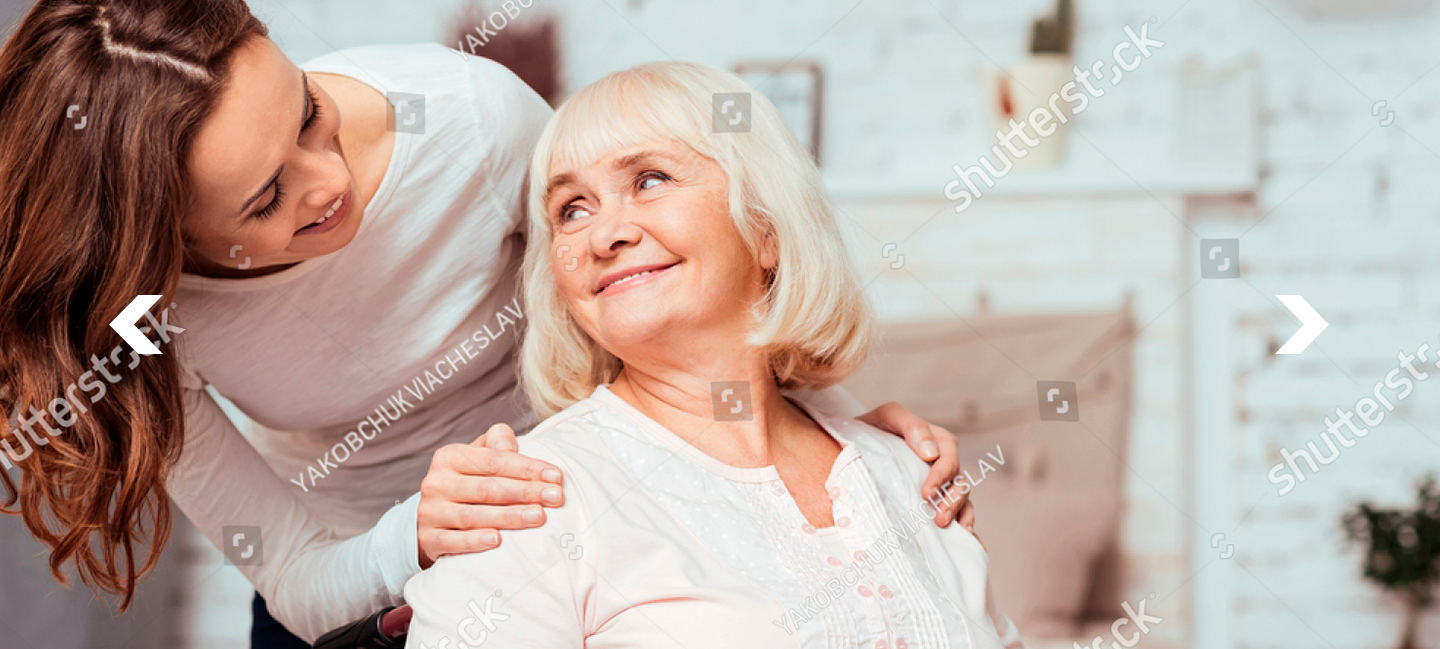
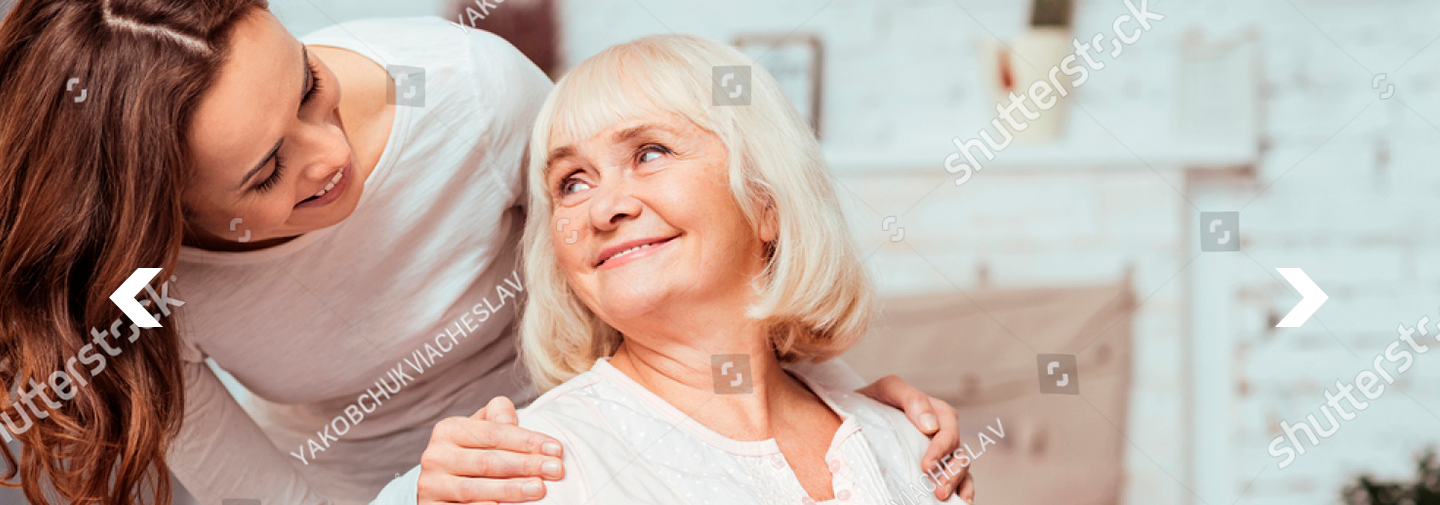
cambios en general de todas la secciones y cambio de unas imagnes

diff --git a/contacto.html b/contacto.html
@@ -10,8 +10,8 @@
     <title>Contacto - Hogar Geriátrico El Tata</title>
     <!-- Bootstrap -->
     <link href="css/bootstrap.css" rel="stylesheet">
-    
-    <!-- Styles CARRUSEL PEQUEÑO -->  
+
+    <!-- Styles CARRUSEL PEQUEÑO -->
     <link rel="stylesheet" href="https://cdnjs.cloudflare.com/ajax/libs/normalize/5.0.0/normalize.min.css">
     <link rel='stylesheet prefetch' href='https://cdnjs.cloudflare.com/ajax/libs/OwlCarousel2/2.1.3/assets/owl.carousel.min.css'>
     <link rel="stylesheet" href="css/style.css">
@@ -61,32 +61,32 @@
     </nav>
   </div>
   </header>
-  <section id="home"></section>
+  <section id="contacto"></section>
   <section id="vision">
     <div class="container">
       <div class="row">
         <div class="col-md-6">
           <form>
-  <div class="form-group">
-  
-    <input type="email" class="form-control" id="exampleFormControlInput1" placeholder="Nombre">
-  </div>
-  <div class="form-group">
-  
-    <input type="email" class="form-control" id="exampleFormControlInput1" placeholder="Email">
-  </div>
-  <div class="form-group">
-  
-    <input type="email" class="form-control" id="exampleFormControlInput1" placeholder="Teléfono">
-  </div>
+                <div class="form-group">
 
-  <div class="form-group">
+                  <input type="email" class="form-control" id="exampleFormControlInput1" placeholder="Nombre">
+                </div>
+                <div class="form-group">
 
-    <textarea class="form-control" id="exampleFormControlTextarea1" placeholder="Mensajes" rows="3"></textarea>
-  </div>
-              
-  <button type="button" class="btn btn-primary">Enviar</button>              
-</form>
+                  <input type="email" class="form-control" id="exampleFormControlInput2" placeholder="Email">
+                </div>
+                <div class="form-group">
+
+                  <input type="email" class="form-control" id="exampleFormControlInput3" placeholder="Teléfono">
+                </div>
+
+                <div class="form-group">
+
+                  <textarea class="form-control" id="exampleFormControlTextarea1" placeholder="Mensajes" rows="3"></textarea>
+                </div>
+
+                <button type="button" class="btn btn-primary">Enviar</button>
+              </form>
         </div>
         <div class="col-md-6">
           <div class="textosfooter">
@@ -106,6 +106,14 @@
       </div>
     </div>
   </section>
+  <div class="footerblue">
+    <div class="container">
+      <div class="row">
+        Dirección: Carrera 9A #134B-07 Bogotá, Colombia Teléfono: +(57) (1) 7588734 - 4817079<br>
+        Celular: 3165798847 Email: correo.electronico@hotmail.com
+      </div>
+    </div>
+  </div>
     <!-- jQuery (necessary for Bootstrap's JavaScript plugins) -->
     <script src="https://ajax.googleapis.com/ajax/libs/jquery/1.12.4/jquery.min.js"></script>
     <!-- Include all compiled plugins (below), or include individual files as needed -->

diff --git a/css/app.css b/css/app.css
@@ -51,6 +51,12 @@ header {
     background-position: center;
     margin-top: 52px;
 }
+.carousel-inner {
+    position: relative;
+    width: 100%;
+    overflow: hidden;
+    margin-bottom: -24px;
+}
 #inicio{
     width: 100%;
     background: url(../img/our_home.png);
@@ -155,6 +161,13 @@ header {
     padding-top: 30px;
     padding-bottom: 30px;
 }
+#contacto{
+    width: 100%;
+    height: 530px;
+    background: url(../img/bg_contacto.png);
+    background-size: cover;
+    background-position: center;
+}
 footer{
     width: 100%;
     background: url(../img/footer.png);
@@ -197,18 +210,18 @@ hr {
 
  /******** Galería pequeña home ********/
 
-.carousel-wrap {
+/*.carousel-wrap {
   margin: 0px 90px 15px 90px;
   padding: 0 5%;
   width: 80%;
   position: relative;
-}
+}*/
 
 /* fix blank or flashing items on carousel */
 .owl-carousel .item {
   position: relative;
-  z-index: 100; 
-  -webkit-backface-visibility: hidden; 
+  z-index: 100;
+  -webkit-backface-visibility: hidden;
 }
 
 /* end fix */
@@ -230,5 +243,3 @@ hr {
 .owl-nav .owl-next {
   right: -30px;
 }
-
-

diff --git a/index.html b/index.html
@@ -67,13 +67,13 @@
   <!-- Wrapper for slides -->
   <div class="carousel-inner" role="listbox">
     <div class="item active">
-      <img src="img/banner.png" alt="">
+      <img src="img/slider/<slide></slide>1.png" alt="">
       <div class="carousel-caption">
         banner1
       </div>
     </div>
     <div class="item">
-      <img src="img/banner.png" alt="">
+      <img src="img/slider/slide1.png" alt="">
       <div class="carousel-caption">
         banner2
       </div>

diff --git a/css/style.css b/css/style.css
@@ -1,14 +1,14 @@
 .carousel-wrap {
-  margin: 0px 90px 90px 90px;
-  width: 80%;
-  position: relative;
+  margin: 0 auto;
+      width: 80%;
+      position: relative;
 }
 
 /* fix blank or flashing items on carousel */
 .owl-carousel .item {
   position: relative;
-  z-index: 100; 
-  -webkit-backface-visibility: hidden; 
+  z-index: 100;
+  -webkit-backface-visibility: hidden;
 }
 
 /* end fix */
